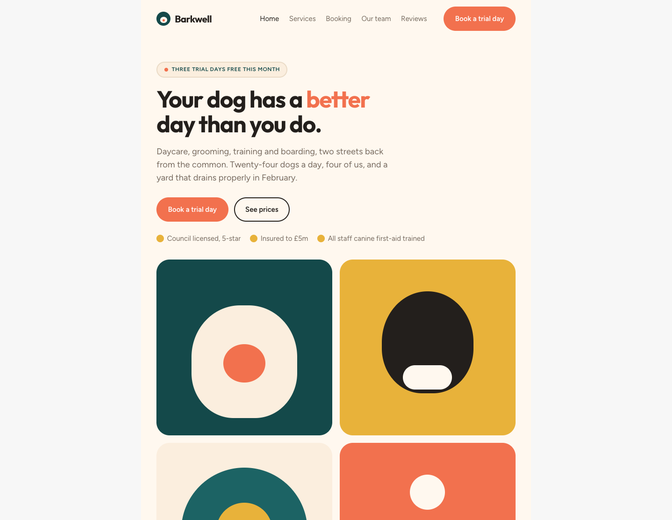
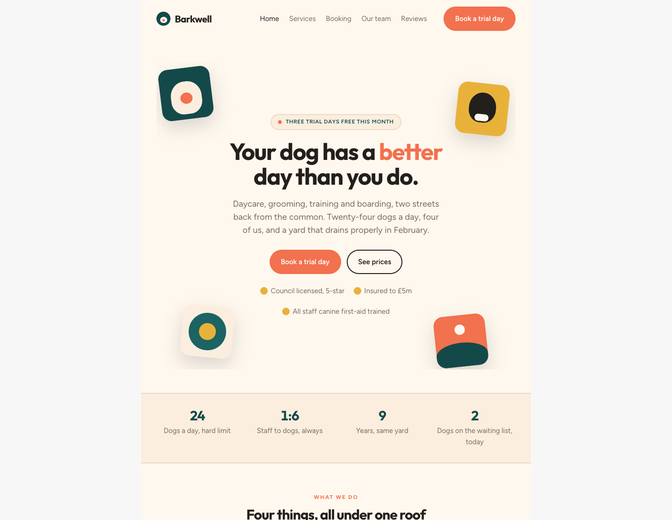
Rebuild the remaining heroes
Finishes the six that shared one hero skeleton, and fixes the deeper
problem underneath it.

Heroes, each matched to what the brand is:
  Startup   oversized timestamp — 03:04 is the product's whole argument,
            so it is the headline, with the console full width beneath
  Pupper    scatter — photographs pinned around the notice at the angles
            they end up at on a real wall
  Fun Time  poster board — unequal flat panels, the headline taking the
            biggest one

Left-text/right-graphic splits: 6 of 11 before, 0 now.

The bigger finding, which the hero work had been hiding: 44 of 44 inner
pages across all eleven templates opened the same way — a small
left-aligned h1, a paragraph under it, then content. Changing one hero
per template left four pages behind it untouched, which is exactly what
was still visible on Beauty.

Beauty is now fixed end to end, five pages on five geometries: corner-
anchored home, a full-bleed band on shop with the filters inside it,
routines opening straight into the builder with the title in it, a
product masthead with the name left and the price hard right above both
columns, and a centred opener on cart. The other ten templates still
have the repeated inner-page opener.

Six templates re-verified at 390, 834 and 1440 and re-shot.

Claude-Session: https://claude.ai/code/session_014Evizdpgtojmpx8Hck2pTY

Changed region(s): [[0.2188, 0.1231, 0.7812, 1.0], [0.6562, 0.1538, 0.7812, 0.2769]]

diff --git a/demo/startup/index.html b/demo/startup/index.html
@@ -41,34 +41,37 @@
 <main>
 
   <section class="hero wrap">
-    <div class="hero-grid">
-      <div>
-        <p class="eyebrow">Now in public beta</p>
-        <h1 class="hero-h">Something broke at 3am. Nobody was on call.</h1>
-        <p class="sub">Nettle watches your services, wakes exactly one person, and writes the timeline while it happens — so the morning after is a document, not an archaeology project.</p>
-        <div class="actions">
+    <p class="eyebrow">Now in public beta</p>
+    <p class="stamp mono">03:<em>04</em></p>
+    <div class="stamp-row">
+      <h1>Something broke. Nobody was on call.</h1>
+      <div class="side">
+        <p class="sub" style="margin:0">Nettle watches your services, wakes exactly one person, and writes the timeline while it happens — so the morning after is a document, not an archaeology project.</p>
+        <div class="actions" style="margin:0">
           <a class="btn primary big" href="pricing.html">Start free for 30 days</a>
           <a class="btn big" href="product.html">See how it works</a>
         </div>
-        <p class="fineprint">No card. Five minutes to first alert. Works with what you already run.</p>
-      </div>
-
-      <div class="panel">
-        <div class="panel-bar">
-          <i aria-hidden="true"></i><i aria-hidden="true"></i><i aria-hidden="true"></i>
-          <span class="nm mono">incident-204 · checkout-api</span>
-          <span class="live mono">LIVE</span>
-        </div>
-        <div class="panel-body mono">
-          <div class="inc"><span class="t">03:04</span><span class="msg"><span class="who dim">nettle</span> p95 latency over 2s for 3 min — <b>opened incident</b></span></div>
-          <div class="inc"><span class="t">03:04</span><span class="msg"><span class="who amber">page</span> on-call rota is empty → nearest owner of <b>checkout-api</b></span></div>
-          <div class="inc"><span class="t">03:06</span><span class="msg"><span class="who">priya</span> acknowledged, from phone</span></div>
-          <div class="inc"><span class="t">03:09</span><span class="msg"><span class="who dim">nettle</span> deploy <b>#1841</b> 22 min before — likely cause</span></div>
-          <div class="inc"><span class="t">03:12</span><span class="msg"><span class="who">priya</span> rolled back to <b>#1840</b></span></div>
-          <div class="inc"><span class="t">03:18</span><span class="msg"><span class="who dim">nettle</span> latency normal for 5 min — <b>resolved</b>, draft written</span></div>
-        </div>
       </div>
     </div>
+  </section>
+
+  <section class="wrap" style="padding-block:0 clamp(2rem,5vw,3.5rem)">
+    <div class="panel">
+      <div class="panel-bar">
+        <i aria-hidden="true"></i><i aria-hidden="true"></i><i aria-hidden="true"></i>
+        <span class="nm mono">incident-204 · checkout-api</span>
+        <span class="live mono">LIVE</span>
+      </div>
+      <div class="panel-body mono">
+        <div class="inc"><span class="t">03:04</span><span class="msg"><span class="who dim">nettle</span> p95 latency over 2s for 3 min — <b>opened incident</b></span></div>
+        <div class="inc"><span class="t">03:04</span><span class="msg"><span class="who amber">page</span> on-call rota is empty → nearest owner of <b>checkout-api</b></span></div>
+        <div class="inc"><span class="t">03:06</span><span class="msg"><span class="who">priya</span> acknowledged, from phone</span></div>
+        <div class="inc"><span class="t">03:09</span><span class="msg"><span class="who dim">nettle</span> deploy <b>#1841</b> 22 min before — likely cause</span></div>
+        <div class="inc"><span class="t">03:12</span><span class="msg"><span class="who">priya</span> rolled back to <b>#1840</b></span></div>
+        <div class="inc"><span class="t">03:18</span><span class="msg"><span class="who dim">nettle</span> latency normal for 5 min — <b>resolved</b>, draft written</span></div>
+      </div>
+    </div>
+    <p class="fineprint" style="margin-top:1rem">No card. Five minutes to first alert. Works with what you already run.</p>
   </section>
 
   <section class="trust">

diff --git a/demo/funtime/style.css b/demo/funtime/style.css
@@ -80,8 +80,40 @@ section.wrap{padding-block:clamp(2.5rem,6vw,4.5rem)}
 .hero .blobs{position:absolute;inset:0;overflow:hidden;pointer-events:none}
 .hero .blobs::before{content:"";position:absolute;width:38vw;height:38vw;right:-8vw;top:-12vw;background:var(--sun);border-radius:50%;opacity:.35}
 .hero .blobs::after{content:"";position:absolute;width:26vw;height:26vw;right:2vw;bottom:-19vw;background:var(--sky);border-radius:50%;opacity:.22}
-.hero .wrap{position:relative;padding-block:clamp(2rem,5vw,4rem)}
-.hero-grid{display:grid;grid-template-columns:minmax(0,1.05fr) minmax(0,.95fr);gap:clamp(1.5rem,4vw,3rem);align-items:center}
+.hero .wrap{position:relative;padding-block:clamp(1.5rem,3.5vw,2.75rem)}
+/* ---------- hero: the activity board ----------------------------------
+   Flat panels tiled like the notice board in the hall, unequal on
+   purpose. The headline takes the biggest panel instead of sitting in a
+   text column with pictures lined up beside it. */
+.board{display:grid;grid-template-columns:repeat(6,minmax(0,1fr));
+  grid-auto-rows:minmax(118px,auto);gap:12px}
+.board > *{border-radius:22px;padding:clamp(1rem,2vw,1.6rem);display:flex;
+  flex-direction:column;justify-content:space-between;gap:.6rem;min-width:0}
+.board .say{grid-column:span 4;grid-row:span 2;background:var(--grape);color:#fff}
+.board .say h1{font-size:clamp(1.8rem,3.8vw,3.1rem)}
+.board .say h1 em{font-style:normal;color:var(--sun)}
+.board .say .sub{color:#DCD4FF;max-width:40ch;font-size:var(--t-s)}
+.board .say .actions{display:flex;gap:.6rem;flex-wrap:wrap}
+.board .pic{grid-column:span 2;grid-row:span 2;padding:0;overflow:hidden}
+.board .pic .plate{width:100%;height:100%;border-radius:0;aspect-ratio:auto}
+.board .p-sun{background:var(--sun)}
+.board .p-sky{background:var(--sky);color:#fff}
+.board .p-blossom{background:var(--blossom);color:#fff}
+.board .p-paper{background:var(--paper-2)}
+.board .w2{grid-column:span 2}
+.board .w3{grid-column:span 3}
+.board .big{font-family:"Baloo 2",sans-serif;font-weight:700;font-size:clamp(1.5rem,3vw,2.4rem);line-height:1}
+.board .lab{font-size:var(--t-xs);font-weight:800;letter-spacing:.1em;text-transform:uppercase;opacity:.85}
+@media (max-width:900px){
+  .board{grid-template-columns:repeat(4,minmax(0,1fr))}
+  .board .say{grid-column:span 4}
+  .board .pic{grid-column:span 2}
+  .board .w3{grid-column:span 2}
+}
+@media (max-width:520px){
+  .board{grid-template-columns:repeat(2,minmax(0,1fr))}
+  .board .say,.board .pic,.board .w2,.board .w3{grid-column:span 2}
+}
 .pill{display:inline-flex;align-items:center;gap:.5rem;background:var(--blossom);color:#fff;border-radius:999px;padding:.35rem 1rem;font-size:var(--t-xs);font-weight:800;letter-spacing:.06em;text-transform:uppercase;margin-bottom:1.25rem}
 .hero h1{font-size:var(--t-hero);max-width:15ch}
 .hero h1 em{font-style:normal;color:var(--grape)}

diff --git a/demo/beauty/style.css b/demo/beauty/style.css
@@ -276,3 +276,38 @@ section.wrap{padding-block:clamp(2.5rem,6vw,4.5rem)}
   .step{grid-template-columns:44px 1fr;row-gap:.3rem}
   .step .pr{grid-column:2;justify-self:start}
 }
+
+
+/* ======================================================================
+   PAGE OPENERS
+   Every inner page used to begin the same way: a small left-aligned h1
+   with a paragraph under it. Five pages, one composition. Each page now
+   opens on its own geometry, so moving through the template feels like
+   moving through a magazine rather than reloading one layout.
+   ====================================================================== */
+
+/* shop — a full-bleed band. The title and the filters share it, so the
+   products start high up the page instead of below a text block. */
+.opener-band{background:var(--forest);color:var(--cream)}
+.opener-band .wrap{padding-block:clamp(1.75rem,4vw,3rem);text-align:center}
+.opener-band h1{font-family:"Newsreader",Georgia,serif;font-size:var(--t-xl)}
+.opener-band p{margin-top:.7rem;color:#B6C4B6;max-width:52ch;margin-inline:auto;font-size:var(--t-s)}
+.opener-band .bar{margin-top:1.4rem;justify-content:center}
+.opener-band .chip{border-color:rgba(253,248,244,.3);color:var(--cream)}
+.opener-band .chip:hover{border-color:var(--cream)}
+.opener-band .chip[aria-pressed="true"]{background:var(--petal);border-color:var(--petal);color:var(--forest)}
+.opener-band .bar .right{margin-left:0;color:#B6C4B6}
+
+/* product — a masthead rule: name on the left of the line, price hard
+   right, the whole thing spanning both columns beneath. */
+.opener-mast{display:flex;align-items:flex-end;justify-content:space-between;gap:1.5rem;
+  flex-wrap:wrap;border-bottom:1px solid var(--forest);padding-bottom:1rem}
+.opener-mast .for{font-size:var(--t-xs);letter-spacing:.14em;text-transform:uppercase;color:var(--sage)}
+.opener-mast h1{font-family:"Newsreader",Georgia,serif;font-size:clamp(1.8rem,3.4vw,2.8rem);margin-top:.3rem}
+.opener-mast .amt{font-size:clamp(1.3rem,2.2vw,1.9rem);font-variant-numeric:tabular-nums;white-space:nowrap}
+
+/* cart — centred, with the count below the rule rather than beside the
+   title. */
+.opener-mid{text-align:center;border-bottom:1px solid var(--line);padding-bottom:1.1rem}
+.opener-mid h1{font-family:"Newsreader",Georgia,serif;font-size:var(--t-xl)}
+.opener-mid p{margin-top:.4rem;color:var(--mid);font-size:var(--t-s)}

diff --git a/demo/beauty/shop.html b/demo/beauty/shop.html
@@ -30,22 +30,23 @@
 </header>
 
 <main>
-  <section class="wrap" style="padding-block:clamp(1.5rem,3vw,2.5rem) 0">
-    <h1 class="serif" style="font-size:var(--t-xl)">Ten products</h1>
-    <p style="margin-top:.7rem;max-width:50ch;color:var(--mid)">Filter by where it sits in a routine. If you would rather be told what to use, the <a href="routines.html" style="text-decoration:underline">routine builder</a> does that in two clicks.</p>
+  <section class="opener-band">
+    <div class="wrap">
+      <h1 class="serif">Ten products</h1>
+      <p>Filter by where it sits in a routine. If you would rather be told what to use, the <a href="routines.html" style="text-decoration:underline">routine builder</a> does that in two clicks.</p>
+      <div class="bar" style="margin-bottom:0">
+        <button class="chip" data-step-filter="all" aria-pressed="true">Everything</button>
+        <button class="chip" data-step-filter="cleanse" aria-pressed="false">Cleanse</button>
+        <button class="chip" data-step-filter="prep" aria-pressed="false">Prep</button>
+        <button class="chip" data-step-filter="treat" aria-pressed="false">Treat</button>
+        <button class="chip" data-step-filter="seal" aria-pressed="false">Seal</button>
+        <button class="chip" data-step-filter="protect" aria-pressed="false">Protect</button>
+        <span class="right" id="count">10 products</span>
+      </div>
+    </div>
   </section>
 
-  <section class="wrap" style="padding-top:clamp(1.25rem,2.5vw,2rem)">
-    <div class="bar">
-      <button class="chip" data-step-filter="all" aria-pressed="true">Everything</button>
-      <button class="chip" data-step-filter="cleanse" aria-pressed="false">Cleanse</button>
-      <button class="chip" data-step-filter="prep" aria-pressed="false">Prep</button>
-      <button class="chip" data-step-filter="treat" aria-pressed="false">Treat</button>
-      <button class="chip" data-step-filter="seal" aria-pressed="false">Seal</button>
-      <button class="chip" data-step-filter="protect" aria-pressed="false">Protect</button>
-      <span class="right" id="count">10 products</span>
-    </div>
-
+  <section class="wrap" style="padding-top:clamp(1.5rem,3vw,2.5rem)">
     <div class="grid" id="grid">
       <article class="card" data-step="cleanse">
         <span class="plate b2" aria-hidden="true"></span>

diff --git a/demo/pupper/style.css b/demo/pupper/style.css
@@ -72,9 +72,34 @@ section.wrap{padding-block:clamp(2.5rem,6vw,4.5rem)}
 .btn.light{border-color:var(--cream);color:var(--cream)}
 .btn.light:hover{background:var(--cream);color:var(--teal)}
 
-/* ---------- hero ---------- */
+/* ---------- hero: the scatter -----------------------------------------
+   Photographs pinned up around the notice, at the angles they actually
+   end up at on a wall by a door. The type sits in the middle of them
+   rather than in a column with the pictures tidied into a grid beside
+   it. Pins stay inside the box so nothing widens the page. */
 .hero{padding-block:clamp(2rem,5vw,4rem)}
-.hero-grid{display:grid;grid-template-columns:minmax(0,1.05fr) minmax(0,.95fr);gap:clamp(1.5rem,4vw,3.5rem);align-items:center}
+.scatter{position:relative;display:grid;place-items:center;text-align:center;
+  min-height:min(72vh,580px);overflow:clip}
+.scatter .mid{position:relative;z-index:2;max-width:42ch;display:grid;justify-items:center}
+.scatter .pin{position:absolute;z-index:1;width:clamp(96px,13vw,188px);
+  border-radius:20px;box-shadow:0 16px 38px rgba(35,31,28,.16)}
+.scatter .p-a{top:2%;left:1%;transform:rotate(-7deg)}
+.scatter .p-b{top:7%;right:2%;transform:rotate(6deg)}
+.scatter .p-c{bottom:4%;left:7%;transform:rotate(5deg)}
+.scatter .p-d{bottom:1%;right:8%;transform:rotate(-6deg)}
+.scatter .p-e{top:42%;left:0;transform:rotate(11deg);width:clamp(74px,9vw,128px)}
+.scatter .p-f{top:46%;right:0;transform:rotate(-9deg);width:clamp(74px,9vw,128px)}
+/* Below 900 the pins would land on the words, so only the four corners
+   stay and they shrink out of the way. */
+@media (max-width:900px){
+  .scatter{min-height:0;padding-block:clamp(5rem,16vw,7rem)}
+  .scatter .pin{width:clamp(72px,17vw,110px)}
+  .scatter .p-e,.scatter .p-f{display:none}
+}
+@media (max-width:520px){
+  .scatter .p-c,.scatter .p-d{display:none}
+  .scatter{padding-block:6rem 2rem}
+}
 .pill{display:inline-flex;align-items:center;gap:.5rem;background:var(--cream-2);border:2px solid var(--line);border-radius:999px;padding:.35rem .9rem;font-size:var(--t-xs);font-weight:600;letter-spacing:.04em;text-transform:uppercase;color:var(--teal);margin-bottom:1.25rem}
 .pill::before{content:"";width:8px;height:8px;border-radius:50%;background:var(--coral)}
 .hero h1{font-size:var(--t-hero);max-width:14ch}

diff --git a/demo/funtime/index.html b/demo/funtime/index.html
@@ -30,27 +30,24 @@
   <section class="hero">
     <span class="blobs" aria-hidden="true"></span>
     <div class="wrap">
-      <div class="hero-grid">
-        <div>
-          <p class="pill">Spring term opens 2 December</p>
+      <div class="board">
+        <div class="say">
+          <p class="pill" style="margin-bottom:0">Spring term opens 2 December</p>
           <h1 class="round">Somewhere to be at <em>four o'clock.</em></h1>
-          <p class="sub">After-school clubs, weekend classes and holiday camps for ages 2 to 12, in the old library on Pelham Street. Collection from three local schools.</p>
+          <p class="sub">After-school clubs, weekend classes and holiday camps for ages 2 to 12, in the old library on Pelham Street.</p>
           <div class="actions">
-            <a class="btn solid" href="contact.html">Book a free taster</a>
-            <a class="btn sun" href="schedule.html">See the timetable</a>
-          </div>
-          <div class="assure">
-            <span>Ofsted registered</span>
-            <span>All staff DBS checked</span>
-            <span>Funded hours accepted</span>
+            <a class="btn sun" href="contact.html">Book a free taster</a>
+            <a class="btn" href="schedule.html" style="border-color:#fff;color:#fff">See the timetable</a>
           </div>
         </div>
-        <div style="display:grid;grid-template-columns:1fr 1fr;gap:1rem">
-          <span class="plate k1" aria-hidden="true"></span>
-          <span class="plate k2" aria-hidden="true"></span>
-          <span class="plate k3" aria-hidden="true"></span>
-          <span class="plate k4" aria-hidden="true"></span>
-        </div>
+        <div class="pic"><span class="plate k1" aria-hidden="true"></span></div>
+
+        <div class="p-sun w2"><p class="lab">Ages</p><p class="big">2 – 12</p></div>
+        <div class="p-sky w2"><p class="lab">Collection from</p><p class="big">3 schools</p></div>
+        <div class="pic"><span class="plate k4" aria-hidden="true"></span></div>
+
+        <div class="p-blossom w3"><p class="lab">Ofsted registered</p><p class="big">Five stars, 2026</p></div>
+        <div class="p-paper w3"><p class="lab">Staff to children</p><p class="big">1:4 under fives</p></div>
       </div>
     </div>
   </section>

diff --git a/demo/startup/style.css b/demo/startup/style.css
@@ -73,9 +73,21 @@ section.wrap{padding-block:clamp(3rem,7vw,6rem)}
 .btn.primary:hover{background:#7DEFC4;border-color:#7DEFC4}
 .btn.big{padding:.85rem 1.5rem;font-size:var(--t-m)}
 
-/* ---------- hero ---------- */
-.hero{padding-block:clamp(3rem,8vw,6.5rem) clamp(2rem,5vw,4rem)}
+/* ---------- hero: the timestamp ---------------------------------------
+   The product's whole argument is what happens at 03:04, so that is the
+   headline, set far past normal display size and running the width of
+   the page. The console then goes full width beneath it rather than
+   shrinking into a column alongside a paragraph. */
+.hero{padding-block:clamp(2rem,5vw,3.5rem) clamp(1.5rem,3vw,2.5rem)}
+.stamp{font-size:clamp(4.5rem,23vw,17rem);line-height:.78;letter-spacing:-.06em;
+  font-weight:700;white-space:nowrap;margin-top:1rem}
+.stamp em{font-style:normal;color:var(--mint)}
+.stamp-row{display:grid;grid-template-columns:minmax(0,1.1fr) minmax(0,.9fr);gap:clamp(1.5rem,4vw,3rem);
+  align-items:end;margin-top:1.5rem;border-top:1px solid var(--line);padding-top:1.4rem}
+.stamp-row h1{font-size:clamp(1.3rem,2.4vw,1.9rem);line-height:1.15;letter-spacing:-.02em;font-weight:700;max-width:22ch}
+.stamp-row .side{display:grid;gap:1rem;justify-items:start}
 .hero-grid{display:grid;grid-template-columns:minmax(0,1.05fr) minmax(0,.95fr);gap:clamp(2rem,5vw,4.5rem);align-items:center}
+@media (max-width:760px){ .stamp-row{grid-template-columns:1fr} }
 .eyebrow{display:inline-flex;align-items:center;gap:.5rem;font-size:var(--t-xs);letter-spacing:.1em;text-transform:uppercase;color:var(--mint);border:1px solid rgba(91,230,176,.3);background:rgba(91,230,176,.07);padding:.3rem .7rem;border-radius:999px;margin-bottom:1.5rem}
 h1.hero-h{font-size:var(--t-hero);line-height:1.02;letter-spacing:-.035em;font-weight:700;max-width:16ch}
 .hero .sub{margin-top:1.4rem;font-size:var(--t-l);color:var(--dim);max-width:46ch;line-height:1.55}

diff --git a/demo/pupper/index.html b/demo/pupper/index.html
@@ -28,26 +28,27 @@
 
 <main>
   <section class="hero wrap">
-    <div class="hero-grid">
-      <div>
+    <div class="scatter">
+      <span class="plate p1 pin p-a" aria-hidden="true"></span>
+      <span class="plate p2 pin p-b" aria-hidden="true"></span>
+      <span class="plate p3 pin p-c" aria-hidden="true"></span>
+      <span class="plate p4 pin p-d" aria-hidden="true"></span>
+      <span class="plate p5 pin p-e" aria-hidden="true"></span>
+      <span class="plate p6 pin p-f" aria-hidden="true"></span>
+
+      <div class="mid">
         <p class="pill">Three trial days free this month</p>
         <h1 class="disp">Your dog has a <em>better</em> day than you do.</h1>
         <p class="sub">Daycare, grooming, training and boarding, two streets back from the common. Twenty-four dogs a day, four of us, and a yard that drains properly in February.</p>
-        <div class="actions">
+        <div class="actions" style="justify-content:center">
           <a class="btn solid" href="booking.html">Book a trial day</a>
           <a class="btn" href="services.html#prices">See prices</a>
         </div>
-        <div class="assure">
+        <div class="assure" style="justify-content:center">
           <span>Council licensed, 5-star</span>
           <span>Insured to £5m</span>
           <span>All staff canine first-aid trained</span>
         </div>
-      </div>
-      <div style="display:grid;grid-template-columns:1fr 1fr;gap:1rem">
-        <span class="plate p1" aria-hidden="true"></span>
-        <span class="plate p2" aria-hidden="true"></span>
-        <span class="plate p3" aria-hidden="true"></span>
-        <span class="plate p4" aria-hidden="true"></span>
       </div>
     </div>
   </section>

diff --git a/demo/beauty/routines.html b/demo/beauty/routines.html
@@ -30,17 +30,12 @@
 </header>
 
 <main>
-  <section class="wrap" style="padding-block:clamp(1.5rem,3vw,2.5rem) 0">
-    <h1 class="serif" style="font-size:var(--t-xl);max-width:20ch">What should I actually use?</h1>
-    <p style="margin-top:.7rem;max-width:52ch;color:var(--mid)">Pick a concern and a time of day. You get three products, in order, and the reason they are in that order — which is the part most of the industry leaves out.</p>
-  </section>
-
-  <section class="wrap" style="padding-top:clamp(1.25rem,2.5vw,2rem)">
+  <section class="wrap" style="padding-top:clamp(1.5rem,3vw,2.5rem)">
     <div class="builder" id="builder">
       <div class="inner">
         <div>
-          <h2>Tell us two things and we will write the routine.</h2>
-          <p class="lede">Three steps, in order, with the reason for each. No quiz, no email gate, and we will happily tell you that you need fewer products rather than more.</p>
+          <h1>What should I actually use?</h1>
+          <p class="lede">Pick a concern and a time of day. Three steps, in order, with the reason for each — which is the part most of the industry leaves out. No quiz, no email gate, and we will happily tell you that you need fewer products rather than more.</p>
           <fieldset>
             <legend>What is bothering you</legend>
             <div class="opts">

diff --git a/demo/beauty/product.html b/demo/beauty/product.html
@@ -34,7 +34,17 @@
     <p class="caps" style="color:var(--mid)"><a href="shop.html">Shop</a> / Treat / Renew Serum</p>
   </section>
 
-  <section class="wrap" style="padding-top:clamp(1rem,2vw,1.5rem)" id="pdp">
+  <section class="wrap" style="padding-top:clamp(.75rem,1.5vw,1.25rem)">
+    <div class="opener-mast">
+      <div>
+        <p class="for">Treat · evening only</p>
+        <h1 class="serif">Renew Serum 0.3%</h1>
+      </div>
+      <p class="amt" id="pdp-price">£42</p>
+    </div>
+  </section>
+
+  <section class="wrap" style="padding-top:clamp(1.25rem,2.5vw,2rem)" id="pdp">
     <div class="pdp">
       <div class="pdp-shots">
         <span class="plate b1" aria-hidden="true"></span>
@@ -43,9 +53,6 @@
       </div>
 
       <div class="pdp-buy">
-        <p class="for">Treat · evening only</p>
-        <h1 class="serif">Renew Serum 0.3%</h1>
-        <p class="price" id="pdp-price">£42</p>
         <p class="desc">Retinaldehyde at 0.3% — a step closer to retinoic acid than retinol, so it works at a lower strength with less irritation. This is the concentration most people should actually start on, and plenty should stay on.</p>
 
         <div class="sizes">

diff --git a/demo/beauty/cart.html b/demo/beauty/cart.html
@@ -31,8 +31,10 @@
 
 <main>
   <section class="wrap" style="padding-block:clamp(1.5rem,3vw,2.5rem) 0">
-    <h1 class="serif" style="font-size:var(--t-xl)">Your bag</h1>
-    <p style="margin-top:.4rem;color:var(--mid)" id="units">3 items</p>
+    <div class="opener-mid">
+      <h1 class="serif">Your bag</h1>
+      <p id="units">3 items</p>
+    </div>
   </section>
 
   <section class="wrap" id="cart" style="padding-top:clamp(1.25rem,2.5vw,2rem)">
